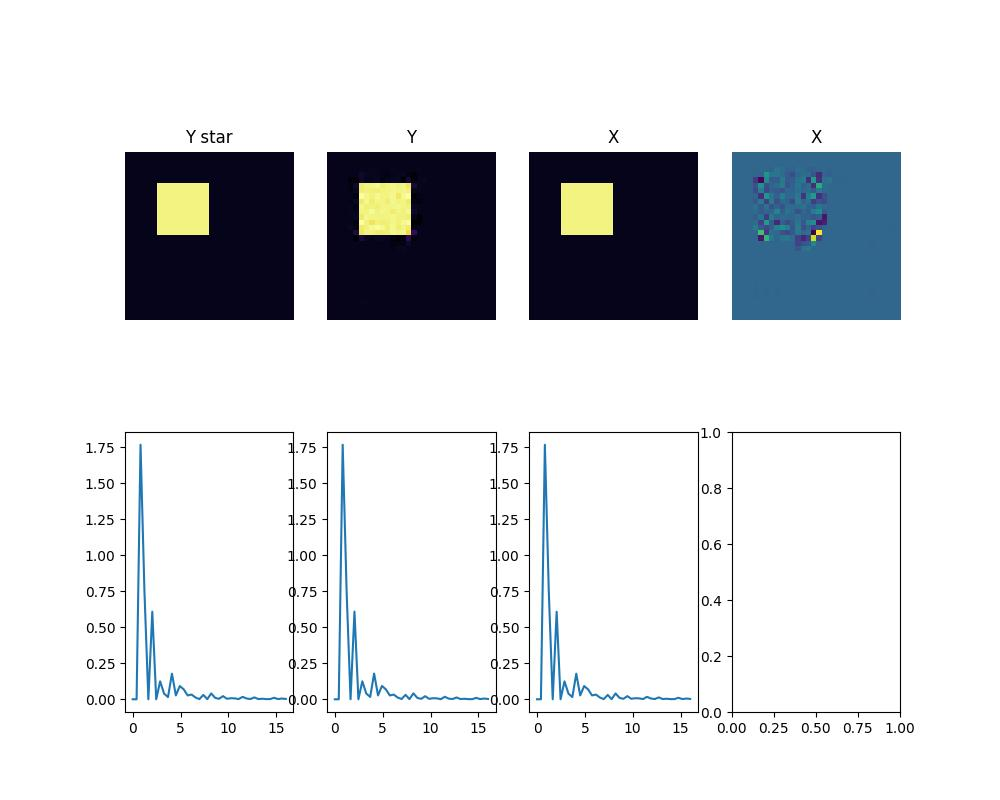
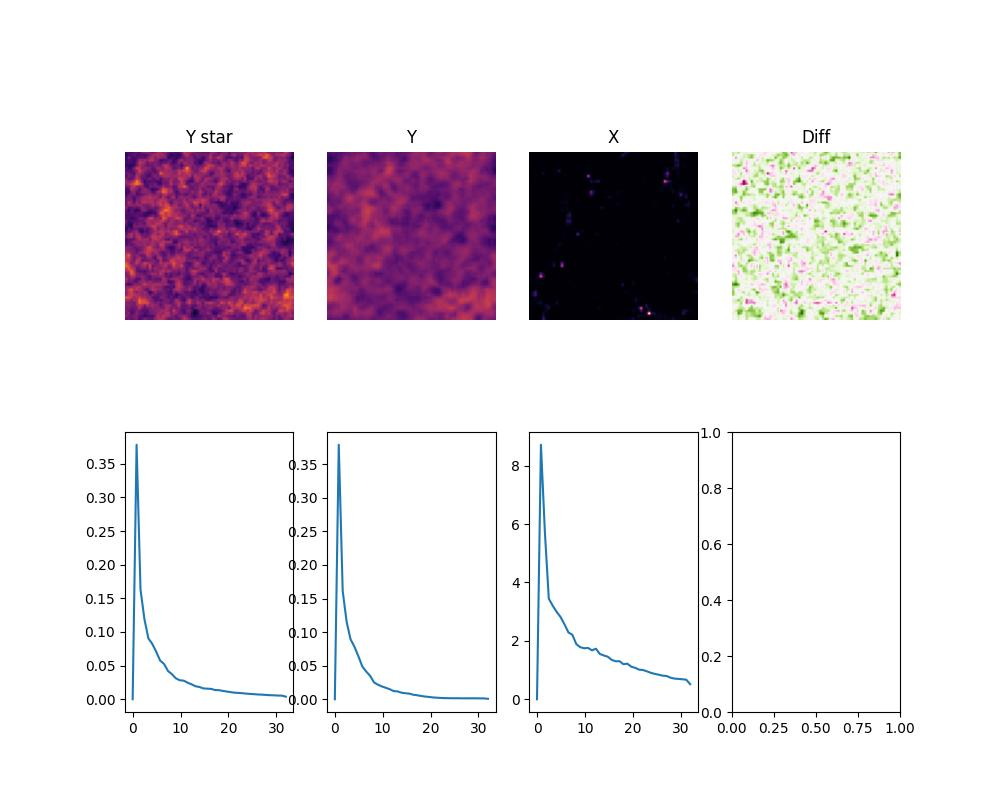
restructure, add visualization

diff --git a/ICG/main.py b/ICG/main.py
@@ -7,22 +7,18 @@ from nvidia.dali import pipeline_def
 import nvidia.dali.fn as fn
 import nvidia.dali.types as types
 from nvidia.dali.plugin.jax import DALIGenericIterator
-# Other
-import matplotlib.pyplot as plt
-import equinox as eqx
 # Local
-import nn
+import layers
 import data
-import cosmos
-import field
+import visualize
 
 # Parameters
 DATA_ROOT = "/shares/feldmann.ics.mnf.uzh/Andrin/IC_GEN/grid/"
 INPUT_GRID_SIZE = 128
-GRID_SIZE = 32
+GRID_SIZE = 64
 BATCH_SIZE = 8
-LEARNING_RATE = 0.01
-N_EPOCHS = 20
+LEARNING_RATE = 0.001
+N_EPOCHS = 100
 
 # JAX Settings / Device Info
 print("Jax backend is using %s" % xla_bridge.get_backend().platform)
@@ -31,7 +27,7 @@ jax.config.update("jax_disable_jit", False)
 
 # Data Pipeline
 dataset = data.VolumetricSequence(
-    BATCH_SIZE, INPUT_GRID_SIZE, DATA_ROOT, (7, 10), False)
+    BATCH_SIZE, INPUT_GRID_SIZE, DATA_ROOT, (0, 50), False)
 
 # dataset = data.TestData(BATCH_SIZE, GRID_SIZE)
 
@@ -77,11 +73,11 @@ init_rng = jax.random.key(0)
 #     padding_mode='CIRCULAR',	
 #     key=init_rng)
 
-model = nn.fno.FNO(
-    modes = 8,
+model = layers.fno.FNO(
+    modes = 16,
     hidden_channels = 4,
     activation = jax.nn.relu,
-    n_furier_layers = 2,
+    n_furier_layers = 4,
     key = init_rng)
 
 # model = nn.Dummy(
@@ -92,16 +88,16 @@ model = nn.fno.FNO(
 #     padding_mode='CIRCULAR',
 #     key=init_rng)
 
-parameter_count = nn.count_parameters(model)
+parameter_count = layers.count_parameters(model)
 print(f'Number of parameters: {parameter_count}')
 
 # train the model
-model, losses = nn.train(
+model, losses = layers.train(
     model,
     data_iterator,
     LEARNING_RATE,
     N_EPOCHS,
-    nn.mse_loss)
+    layers.mse_loss)
 
 data_pipeline = volumetric_pairs_pipe(dataset)
 data_iterator = DALIGenericIterator(data_pipeline, ["start", "end"])
@@ -109,57 +105,10 @@ data_iterator = DALIGenericIterator(data_pipeline, ["start", "end"])
 data = next(data_iterator)
 x = jax.device_put(data['end'], jax.devices('gpu')[0])
 y_star = jax.device_put(data['start'], jax.devices('gpu')[0])
-
-params, static = eqx.partition(model, eqx.is_array)
-print(nn.mse_loss(params, static, x, y_star))
-
 y = model(x[0])
 
-y_star = jnp.reshape(y_star[0], (GRID_SIZE, GRID_SIZE, GRID_SIZE, 1))
-y = jnp.reshape(y, (GRID_SIZE, GRID_SIZE, GRID_SIZE, 1))
-x = jnp.reshape(x[0], (GRID_SIZE, GRID_SIZE, GRID_SIZE, 1))
-
-print(y_star.shape)
-print(y.shape)
-print(x.shape)
-
-print(jnp.max(y_star))
-print(jnp.max(y))
-print(jnp.min(y_star))
-print(jnp.min(y))
-
-min = jnp.min(jnp.array([y_star, y, x]))
-max = jnp.max(jnp.array([y_star, y, x]))
-
-power_spectrum = cosmos.PowerSpectrum(GRID_SIZE, 40)
-
-fig, axs = plt.subplots(2, 4, figsize=(10, 8))
-
-# set inferno colormap
-axs[0, 0].axis('off')
-axs[0, 0].set_title("Y star")
-axs[0, 0].imshow(y_star[GRID_SIZE // 2, : , :], vmin=min, vmax=max, cmap='inferno')
-k, power = power_spectrum(y_star[:, :, :, 0])
-axs[1, 0].plot(k, power)
-
-axs[0, 1].axis('off')
-axs[0, 1].set_title("Y")
-axs[0, 1].imshow(y[GRID_SIZE // 2, : , :], vmin=min, vmax=max, cmap='inferno')
-k, power = power_spectrum(y[:, :, :, 0])
-axs[1, 1].plot(k, power)
-
-axs[0, 2].axis('off')
-axs[0, 2].set_title("X")
-axs[0, 2].imshow(x[GRID_SIZE // 2, : , :], vmin=min, vmax=max, cmap='inferno')
-k, power = power_spectrum(x[:, :, :, 0])
-axs[1, 2].plot(k, power)
-
-difference = y[GRID_SIZE // 2, : , :] - y_star[GRID_SIZE // 2, : , :]
-axs[0, 3].axis('off')
-axs[0, 3].set_title("X")
-axs[0, 3].imshow(difference)
-
-plt.savefig("pred_vs_real.jpg")
+visualize.compare(
+    "compare.jpg", x=x, y=y, y_star=y_star)
 
 # Delete Data Pipeline
 del data_pipeline

diff --git a/ICG/visualize/compare.py b/ICG/visualize/compare.py
@@ -1,0 +1,59 @@
+import jax
+import jax.numpy as jnp
+import cosmos
+import matplotlib.pyplot as plt
+
+def compare(
+        ouput_file : str,
+        y_star : jax.Array,
+        y : jax.Array,
+        x : jax.Array):
+    
+    grid_size = y.shape[1]
+
+    # transform to shape for matplotlib
+    y_star = jnp.reshape(y_star[0], (grid_size, grid_size, grid_size, 1))
+    y = jnp.reshape(y, (grid_size, grid_size, grid_size, 1))
+    x = jnp.reshape(x[0], (grid_size, grid_size, grid_size, 1))
+
+    min = jnp.min(jnp.array([y_star, y]))
+    max = jnp.max(jnp.array([y_star, y]))
+
+    power_spectrum = cosmos.PowerSpectrum(grid_size, 40)
+
+    fig = plt.figure(figsize=(10, 8), layout="constrained")
+    grid = fig.add_gridspec(nrows=2, ncols=3)
+
+    ax_y_star = fig.add_subplot(grid[0, 0])
+    ax_y = fig.add_subplot(grid[0, 1])
+    ax_x = fig.add_subplot(grid[0, 2])
+    ax_diff = fig.add_subplot(grid[1, 0])
+    ax_power = fig.add_subplot(grid[1, 1:3])
+
+    ax_y_star.axis('off')   
+    ax_y_star.set_title("Y star")
+    ax_y_star.imshow(y_star[grid_size // 2, : , :], vmin=min, vmax=max, cmap='inferno')
+    k, power = power_spectrum(y_star[:, :, :, 0])
+    ax_power.plot(k, power, label='y_star')
+
+    ax_y.axis('off')
+    ax_y.set_title("Y")
+    ax_y.imshow(y[grid_size // 2, : , :], vmin=min, vmax=max, cmap='inferno')
+    k, power = power_spectrum(y[:, :, :, 0])
+    ax_power.plot(k, power, label='y')
+
+    ax_x.axis('off')
+    ax_x.set_title("X")
+    ax_x.imshow(x[grid_size // 2, : , :], cmap='inferno')
+    k, power = power_spectrum(x[:, :, :, 0])
+    ax_power.plot(k, power, label='x')
+
+    difference = y[grid_size // 2, : , :] - y_star[grid_size // 2, : , :]
+    ax_diff.axis('off')
+    ax_diff.set_title("Diff")
+    ax_diff.imshow(difference, cmap='PiYG')
+
+    ax_power.legend()
+    ax_power.set_yscale('log')
+
+    plt.savefig(ouput_file)

diff --git a/ICG/layers/loss.py b/ICG/layers/loss.py
@@ -8,5 +8,4 @@ def mse_loss(params, static, x : jax.Array, y_star : jax.Array):
     model = eqx.combine(params, static)
     y = jax.vmap(model)(x)
     mse = jnp.sum((y_star - y) ** 2)
-    print(mse.shape)
     return mse

diff --git a/ICG/__init__.py b/ICG/__init__.py
@@ -1,0 +1,5 @@
+from .cosmos import *
+from .data import *
+from .field import *
+from .layers import *
+from .visualize import *

diff --git a/ICG/visualize/__init__.py b/ICG/visualize/__init__.py
@@ -1,0 +1,1 @@
+from .compare import *
